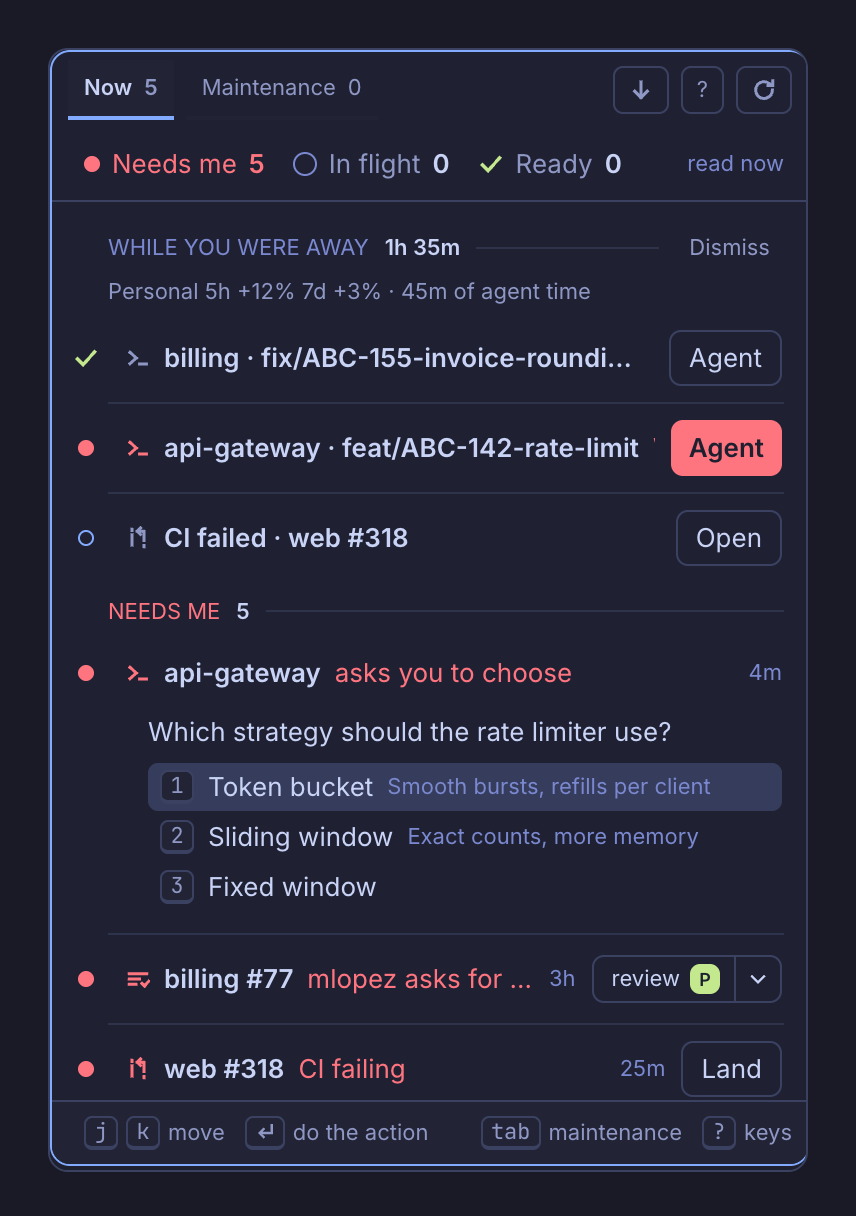
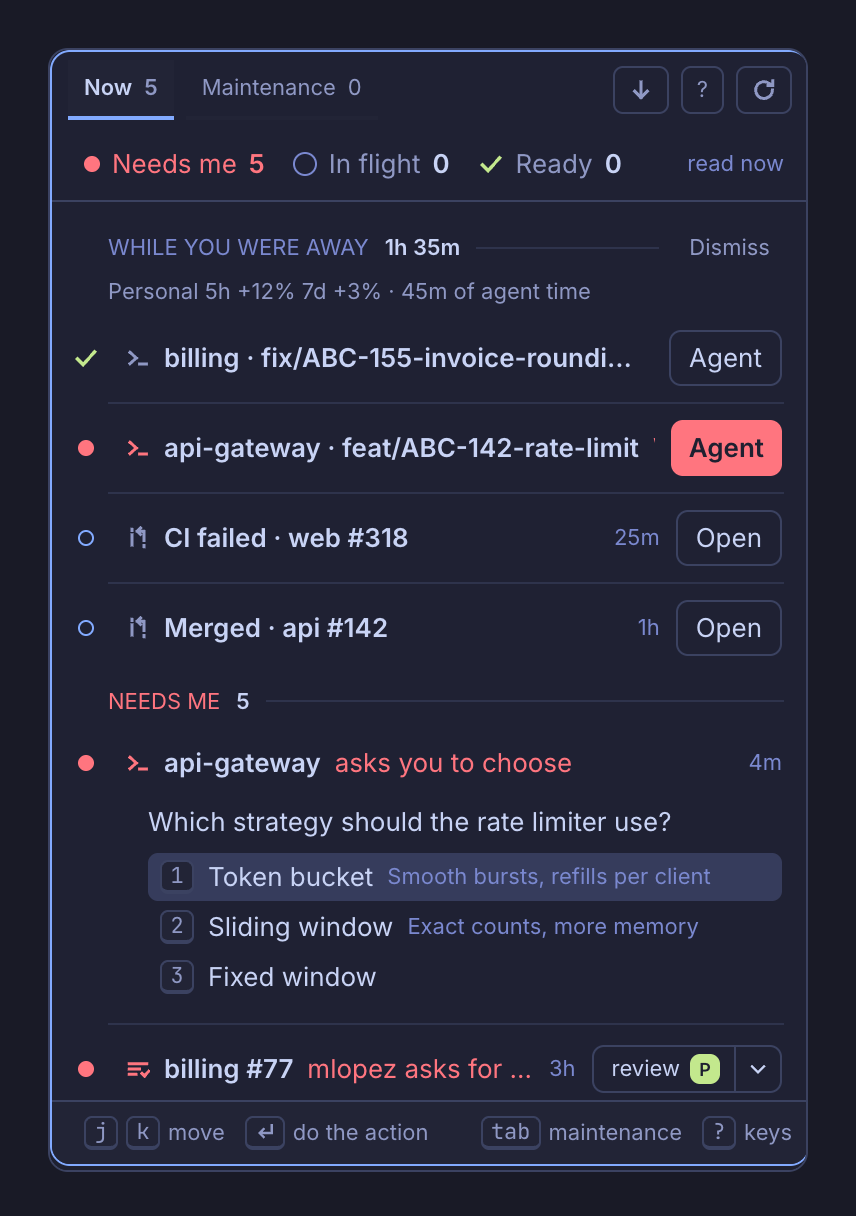
feat: While you were away shows each PR change's age, newest first (#125)
Events carry the look's time (a merge, GitHub's mergedAt) and the digest sorts them newest first.

diff --git a/mods/relevo/lib/github.js b/mods/relevo/lib/github.js
@@ -27,7 +27,7 @@ export const OWNER = /^(@me|[A-Za-z0-9](?:[A-Za-z0-9-]{0,38}))$/;
 // Contributors to the owners' repos rarely ask for a review; bots crowd that search, so it reads more than it keeps.
 export const othersQuery = (owners = ["@me"]) => `query {
   viewer { login merged: pullRequests(states: MERGED, first: 10, orderBy: {field: UPDATED_AT, direction: DESC}) { nodes {
-    url number headRefName isCrossRepository repository { nameWithOwner } } } }
+    url number headRefName isCrossRepository mergedAt repository { nameWithOwner } } } }
   search(query: "is:open is:pr review-requested:@me archived:false", type: ISSUE, first: 20) { nodes {
     ... on PullRequest { ${OTHER_FIELDS} } } }${owners.length ? `
   contributed: search(query: "is:open is:pr ${owners.map((o) => `user:${o}`).join(" ")} -author:@me archived:false sort:updated-desc", type: ISSUE, first: 50) { nodes {
@@ -211,14 +211,14 @@ const nameOf = (p) => `${p.repository.nameWithOwner.split("/")[1]} #${p.number}`
 
 // What changed on your open PRs since the last look; the first look sets the baseline and says nothing.
 // Drafts only count for merges: one that left the open list and shows among the merged ones.
-export function prChanges(before, data) {
+export function prChanges(before, data, at = Date.now() / 1000) {
   const now = new Map(), events = [];
   for (const p of data.viewer.pullRequests.nodes) {
     const state = { ci: ciOf(p), threads: unresolved(p), decision: p.reviewDecision ?? null, draft: Boolean(p.isDraft) };
     now.set(p.url, state);
     const was = before?.get(p.url);
     if (!was || state.draft || was.draft) continue;
-    const name = nameOf(p), base = { url: p.url, repo: p.repository.nameWithOwner };
+    const name = nameOf(p), base = { url: p.url, repo: p.repository.nameWithOwner, at };
     if (RED.has(state.ci) && !RED.has(was.ci)) events.push({ ...base, kind: "ci-failed", title: `CI failed · ${name}` });
     if (state.ci === "SUCCESS" && was.ci !== "SUCCESS") events.push({ ...base, kind: "ci-passed", title: `CI passed · ${name}` });
     if (state.threads > was.threads) {
@@ -233,7 +233,7 @@ export function prChanges(before, data) {
   for (const p of data.viewer.merged?.nodes ?? []) {
     if (!before?.has(p.url) || now.has(p.url)) continue;
     events.push({
-      url: p.url, repo: p.repository.nameWithOwner, kind: "merged", title: `Merged · ${nameOf(p)}`,
+      url: p.url, repo: p.repository.nameWithOwner, kind: "merged", title: `Merged · ${nameOf(p)}`, at: p.mergedAt ? seconds(p.mergedAt) : at,
       head: p.isCrossRepository ? null : p.headRefName,
     });
   }

diff --git a/mods/relevo/inbox-away.js b/mods/relevo/inbox-away.js
@@ -5,7 +5,7 @@ import { agents, panes, exec, run, window } from "herdr";
 import { ACCOUNTS } from "./accounts.js";
 import { agentTimeBetween } from "./ledger.js";
 import { button, joined, LANE, legHeader } from "./ui.js";
-import { duration } from "./lib/time.js";
+import { ago, duration } from "./lib/time.js";
 import { lastMessage } from "./lib/prompt.js";
 import { AWAY_AFTER, leftAt, awaySummary } from "./lib/away.js";
 
@@ -75,7 +75,7 @@ export class AwayViews {
         id: `away-wait-${x}`, kind: "blocked", label: name(live.get(x)), note: why[x] ?? "waiting for you", go: focus(live.get(x)),
       })),
       ...d.prs.map((p, i) => ({
-        id: `away-pr-${i}`, kind: "pr", label: p.title, go: () => /^https:\/\//.test(p.url) && exec("open", [p.url]),
+        id: `away-pr-${i}`, kind: "pr", label: p.title, at: p.at, go: () => /^https:\/\//.test(p.url) && exec("open", [p.url]),
       })),
     ];
   }
@@ -100,7 +100,7 @@ export class AwayViews {
       }),
       facts ? div().id("away-facts").pl(LANE).pr(8).pb(2).text_size(11).text_color(t.muted).child(facts) : null,
       ...joined(t, this.awayItems().map((r) => this.item(t, r.id, {
-        turn: turn[r.kind], kind: r.kind === "pr" ? "pr" : "agent", title: r.label, reason: r.note ?? null, tip: r.note ?? null, main: this.awayAction(r),
+        turn: turn[r.kind], kind: r.kind === "pr" ? "pr" : "agent", title: r.label, reason: r.note ?? null, age: r.at ? ago(r.at, true) : null, tip: r.note ?? null, main: this.awayAction(r),
       }))),
     ].filter(Boolean);
   }

diff --git a/mods/relevo/lib/away.js b/mods/relevo/lib/away.js
@@ -14,11 +14,13 @@ const RESTING = new Set(["done", "idle"]);
 export function awaySummary({ since, now, agents, worked, events, quotasBefore, quotasNow, labels = {} }) {
   const finished = agents.filter((a) => worked.has(a.address) && RESTING.has(a.status)).map((a) => a.address);
   const waiting = agents.filter((a) => a.status === "blocked").map((a) => a.address);
+  // Newest first; a tie keeps the later push on top, so a poll's merge sits above its CI change.
+  const newest = [...events].reverse().sort((x, y) => (y.at ?? 0) - (x.at ?? 0));
   const seen = new Set(), prs = [];
-  for (const e of events) {
+  for (const e of newest) {
     if (seen.has(e.title)) continue;
     seen.add(e.title);
-    prs.push({ title: e.title, url: e.url, kind: e.kind });
+    prs.push({ title: e.title, url: e.url, kind: e.kind, at: e.at ?? null });
   }
   const quota = [];
   for (const [key, q] of Object.entries(quotasNow ?? {})) {
